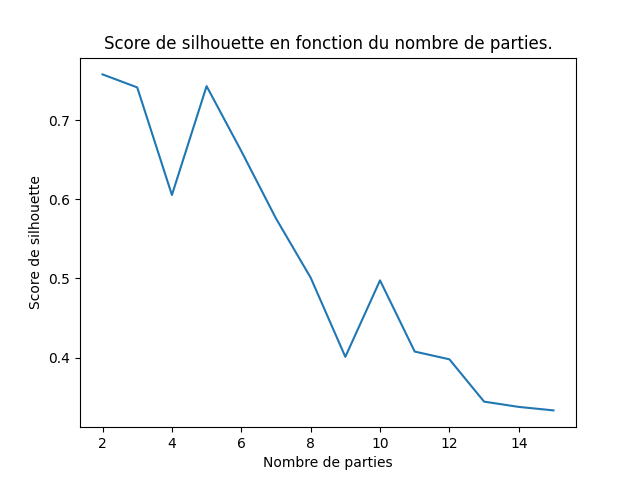
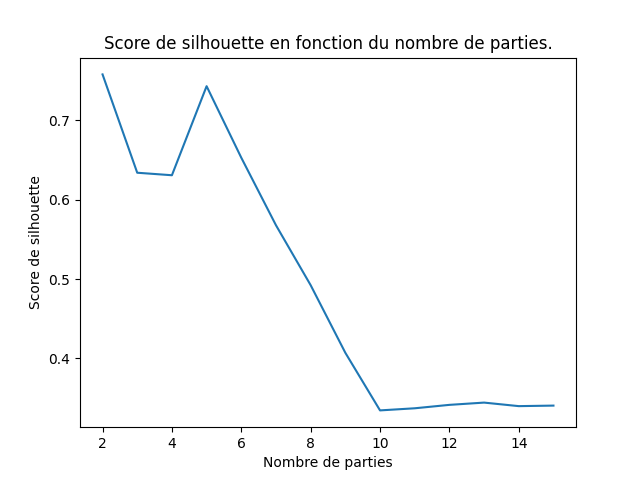
update

diff --git a/ensg/miashs/l3-sd3/tps/partitionnement/correction.html b/ensg/miashs/l3-sd3/tps/partitionnement/correction.html
@@ -352,7 +352,7 @@ draw_silhouettes (les_silhouettes_avg1a)</pre>
 
 	      <br>
 
-	      Par contre, le score de silhouettes est maximal pour k = 2. Ce score est à peu près égal pour k = 3 et k = 5, mais inférieur à k = 2.
+	      Par contre, le score de silhouettes est maximal pour k = 2. Il est légérement supérieur à ce score pour k = 5.
 	      
 	      <br>
 
@@ -365,7 +365,13 @@ draw_silhouettes (les_silhouettes_avg1a)</pre>
 	    </p>
 	  </div>
 	</li>
-	<li>Les iris qui sont disponibles dans scikit_learn en faisant <code>sklearn.datasets.load_iris ().data</code>. Est-ce que les centres mobiles indiquent qu'il y a 3 groupes&nbsp;? Comparer les partitions en 2, 3 et 4 groupes aux regroupement en 3 classes du jeu de données.</li>
+	<li>Les iris qui sont disponibles dans scikit_learn en faisant <code>sklearn.datasets.load_iris ().data</code>. Est-ce que les centres mobiles indiquent qu'il y a 3 groupes&nbsp;? Comparer les partitions en 2, 3 et 4 groupes aux regroupement en 3 classes du jeu de données.
+
+	  <div class="correction">
+	    Pour les iris, j'obtiens 
+	  </div>
+
+	</li>
 	<li><a href="https://philippe-preux.github.io/ensg/miashs/fouilleDeDonneesII/tp/k-moyennes/jeu4.txt">ce fichier</a></li>
 	<li><a href="https://philippe-preux.github.io/ensg/miashs/fouilleDeDonneesII/tp/k-moyennes/jeu5.txt">ce fichier</a></li>
 	<li><a href="https://philippe-preux.github.io/ensg/miashs/fouilleDeDonneesII/tp/k-moyennes/jeu11.txt">ce fichier</a></li>
